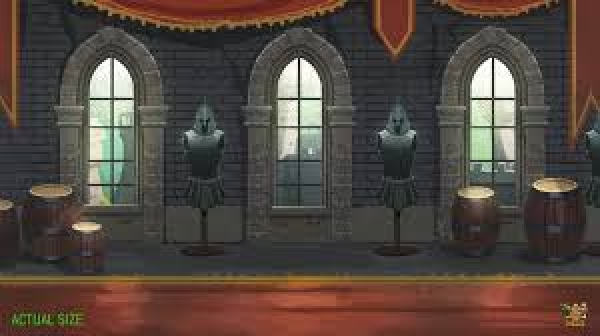
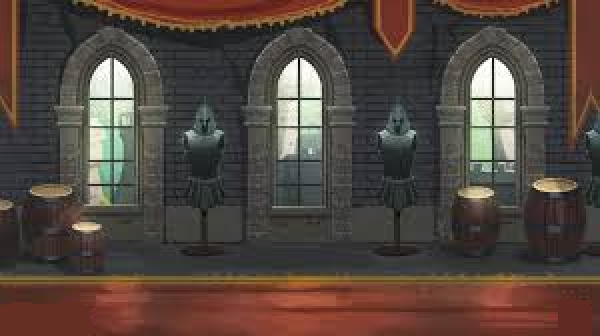
moved characters and weapons

Changed region(s): [[0.0, 0.8929, 0.15, 1.0], [0.93, 0.8929, 0.99, 1.0]]

diff --git a/src/styles.css b/src/styles.css
@@ -85,26 +85,33 @@ body {
   border-image-source: url(./assets/border.png);
   border-image-slice: 20 22;
   border-image-repeat: stretch;
-  background: url(./assets/background.png) no-repeat; }
+  background: url(./assets/background.png) no-repeat;
+  background-size: 515px 280px; }
 
 .mariel {
+  position: relative;
+  top: 55%;
+  left: 30%;
   height: 47%;
   width: 11%;
   background: url(./assets/mariel-medium.png) -50px no-repeat;
-  transform: scale(0.9); }
+  transform: scale(0.9) scaleX(-1); }
 
 .mariel:hover {
-  transform: translateZ(0) scale(1);
+  transform: scale(1) scaleX(-1);
   transition: all 200ms ease-in; }
 
 .whip {
+  position: relative;
+  top: 60%;
+  left: 8%;
   height: 31%;
   width: 15%;
   background: url(./assets/whip-big.png) -10px no-repeat;
-  transform: scale(0.9); }
+  transform: scale(0.9) scaleX(-1); }
 
 .whip:hover {
-  transform: scale(1);
+  transform: scale(1) scaleX(-1);
   transition: all 200ms ease-in; }
 
 .key {
@@ -129,6 +136,7 @@ body {
   transition: all 200ms ease-in; }
 
 .voodoo {
+  position: relative;
   height: 18%;
   width: 10%;
   background: url(./assets/voodoo-big.png) 5px -3px no-repeat;
@@ -139,6 +147,9 @@ body {
   transition: all 200ms ease-in; }
 
 .wand {
+  position: relative;
+  top: 66%;
+  right: 42%;
   height: 13%;
   width: 7%;
   background: url(./assets/wand-big.png) -15px no-repeat;
@@ -210,6 +221,9 @@ body {
   transition: all 200ms ease-in; }
 
 .sword {
+  position: relative;
+  top: 0%;
+  right: 5%;
   height: 10%;
   width: 20%;
   background: url(./assets/sword.png) no-repeat;

diff --git a/src/styles.scss b/src/styles.scss
@@ -139,27 +139,34 @@ body {
   border-image-slice: 20 22;
   border-image-repeat: stretch;
   background: url(./assets/background.png) no-repeat;
+  background-size: 515px 280px;
 }
 .mariel {
+  position:relative;
+  top: 55%;
+  left: 30%;
   height: 47%;
   width: 11%;
   // border: 5px solid red;
   background: url(./assets/mariel-medium.png) -50px no-repeat;
-  transform: scale(0.9);
+  transform: scale(0.9) scaleX(-1);
 }
 .mariel:hover {
-  transform: translateZ(0) scale(1);
+  transform:scale(1) scaleX(-1);
   transition: all 200ms ease-in;
 }
 .whip {
+  position: relative;
+  top: 60%;
+  left: 8%;
   height: 31%;
   width: 15%;
   // border: 5px solid black;
   background: url(./assets/whip-big.png) -10px no-repeat;
-  transform: scale(0.9);
+  transform: scale(0.9) scaleX(-1);
 }
 .whip:hover {
-  transform: scale(1);
+  transform: scale(1) scaleX(-1);
   transition: all 200ms ease-in;
 }
 .key {
@@ -186,6 +193,8 @@ body {
   transition: all 200ms ease-in;
 }
 .voodoo {
+  position: relative;
+
   height: 18%;
   width: 10%;
   // border: 5px solid pink;
@@ -197,6 +206,9 @@ body {
   transition: all 200ms ease-in;
 }
 .wand {
+  position: relative;
+  top: 66%;
+  right: 42%;
   height: 13%;
   width: 7%;
   // border: 5px solid blue;
@@ -275,6 +287,9 @@ body {
   transition: all 200ms ease-in;
 }
 .sword {
+  position: relative;
+  top: 0%;
+  right: 5%;
   height: 10%;
   width: 20%;
   // border: 5px solid gold;
